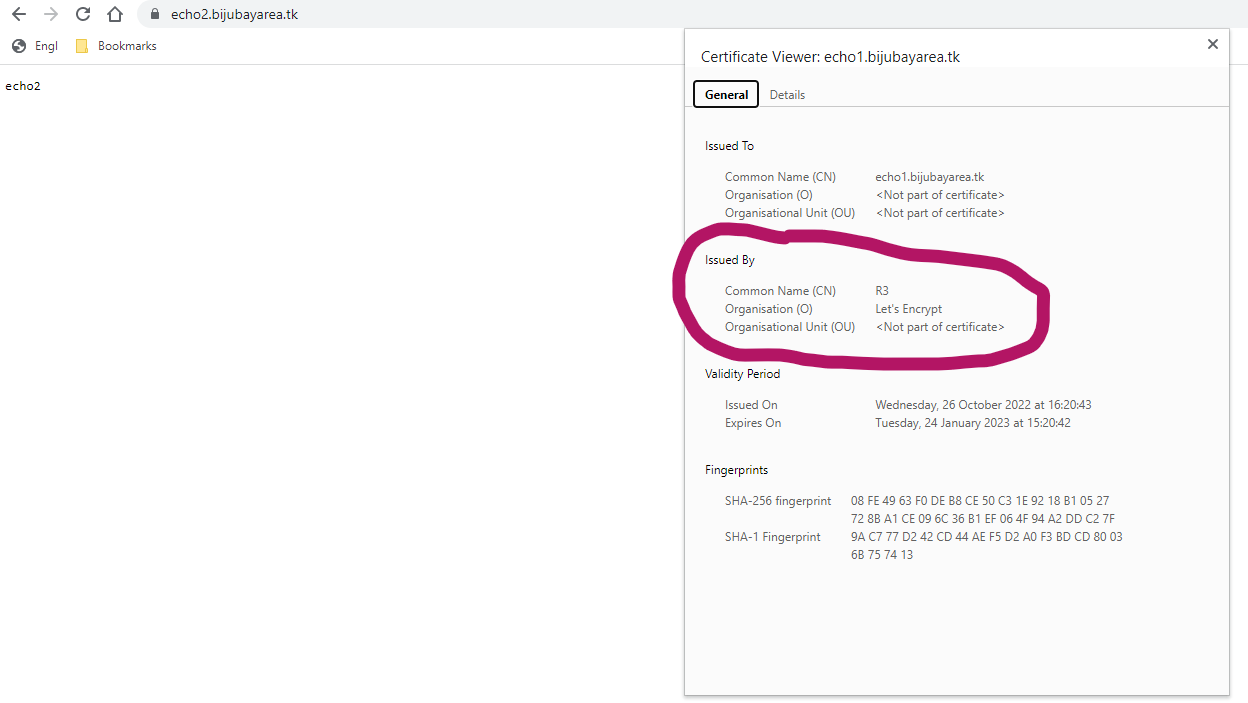
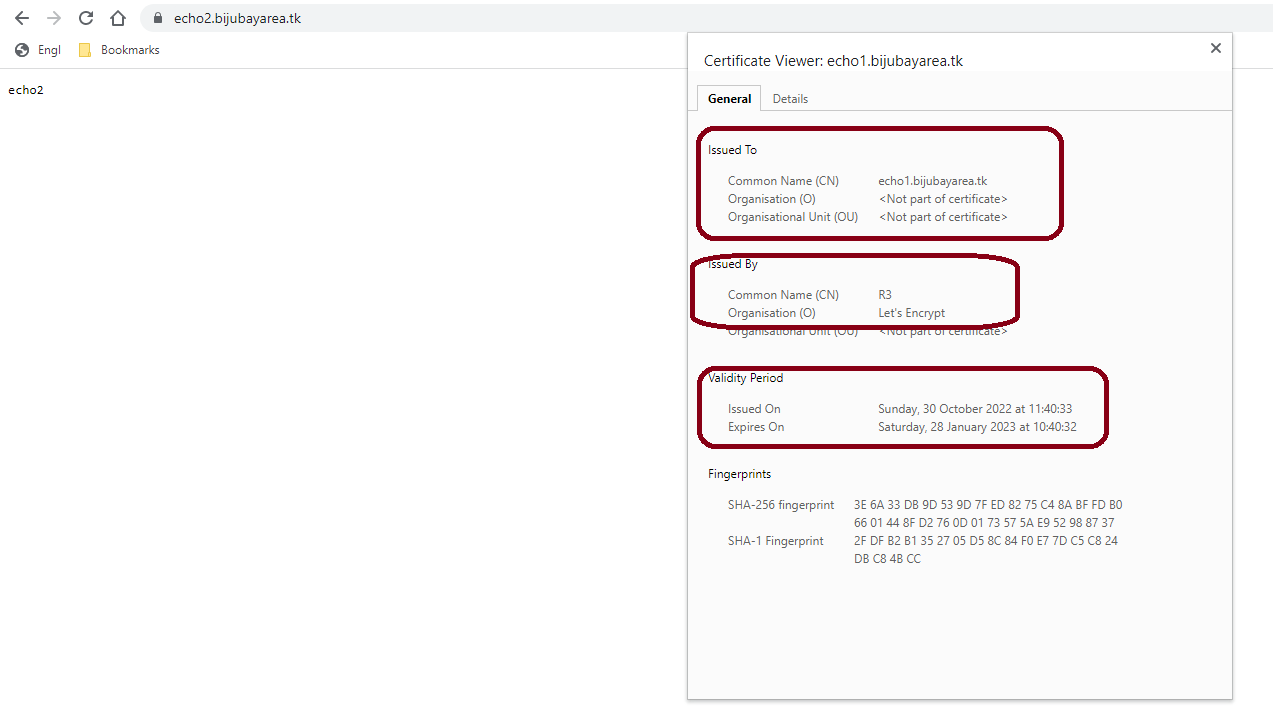
fine tune

diff --git a/README.md b/README.md
@@ -41,7 +41,7 @@ ExternalDNS synchronizes exposed Kubernetes Services and Ingresses with DNS prov
 ** VERY IMPORTANT **
 - argoCD app-set (boot-strap) auto synch should disabled
 - First sych "ingress-nginx" app, wait 2 mins
-- wait for ingress-controller's load balanacer  to come up  
+- wait for ingress-controller's load balanacer to come up and check browser access to LB (`k get svc -n ingress-nginx ingress-nginx-controller`)
 - update AWS Route53 A record "website.bijubayarea.tk" with ingress-controller's load balanacer
 - synch "cert-manager"
 - synch "external-dns"
@@ -122,7 +122,7 @@ Install the App-set either using following ARGO CLI or from  web interface from 
 ** VERY IMPORTANT **
 - argoCD app-set (boot-strap) auto synch should disabled
 - First sych "ingress-nginx" app, wait 2 mins, 
-- wait for ingress-controller's load balanacer  to come up  
+- wait for ingress-controller's load balanacer  to come up and check browser access to LB (`k get svc -n ingress-nginx ingress-nginx-controller`)
 - synch "external-dns", update AWS Route53 A record "website.bijubayarea.tk" with ingress-controller's load balanacer
 - synch "cert-manager"
 
@@ -139,7 +139,7 @@ argocd app create boot-strap --project default --sync-policy auto --auto-prune -
 ## CONFIGURING THE EXTERNAL DNS
 In short, external DNS is a pod running in your EKS cluster which watches over all your ingresses. When it detects an ingress with a host specified, it automatically picks up the hostname as well as the endpoint and creates a record for that resource in Route53. If the host is changed or deleted, external DNS will reflect the change immediately in Route53.
 
-The next steps are two:
+The next steps are :
 
 Configuring the permissions to give access to Route53
 Deploying the External DNS. ExternalDNS reads the ingresses DNS hostnames (website.bijubayarea.tk, echo1.bijubayarea.tk & 
@@ -440,7 +440,7 @@ $ kubectl describe certificates
 
 $ k -n http-echo get certificates
 NAME            READY   SECRET          AGE
-http-echo-tls   False   http-echo-tls   65m
+http-echo-tls   True    http-echo-tls   2m37s
 
 
 $ k -n http-echo describe  certificates http-echo-tls
@@ -451,52 +451,22 @@ Annotations:  <none>
 API Version:  cert-manager.io/v1
 Kind:         Certificate
 Metadata:
-  Creation Timestamp:  2022-10-30T17:43:53Z
+  Creation Timestamp:  2022-10-30T19:38:33Z
   Generation:          1
-  Managed Fields:
-    API Version:  cert-manager.io/v1
-    Fields Type:  FieldsV1
-    fieldsV1:
-      f:metadata:
-        f:labels:
-          .:
-          f:app.kubernetes.io/instance:
-        f:ownerReferences:
-          .:
-          k:{"uid":"359a4c56-52ae-4874-9c31-7c4a4df50ca0"}:
-      f:spec:
-        .:
-        f:dnsNames:
-        f:issuerRef:
-          .:
-          f:group:
-          f:kind:
-          f:name:
-        f:secretName:
-        f:usages:
-    Manager:      controller
-    Operation:    Update
-    Time:         2022-10-30T17:43:53Z
-    API Version:  cert-manager.io/v1
-    Fields Type:  FieldsV1
-    fieldsV1:
-      f:status:
-        .:
-        f:conditions:
-        f:nextPrivateKeySecretName:
+
     Manager:      controller
     Operation:    Update
     Subresource:  status
-    Time:         2022-10-30T17:43:53Z
+    Time:         2022-10-30T19:40:34Z
   Owner References:
     API Version:           networking.k8s.io/v1
     Block Owner Deletion:  true
     Controller:            true
     Kind:                  Ingress
     Name:                  echo-ingress
-    UID:                   359a4c56-52ae-4874-9c31-7c4a4df50ca0
-  Resource Version:        13745
-  UID:                     c1ebcd46-f2c0-4aa0-8f2d-e96ad8121f23
+    UID:                   44860053-b2ad-481d-9614-a665c2541b1e
+  Resource Version:        36730
+  UID:                     2e9a72ec-4198-47ff-8689-b35ac5e85a02
 Spec:
   Dns Names:
     echo1.bijubayarea.tk
@@ -511,54 +481,58 @@ Spec:
     key encipherment
 Status:
   Conditions:
-    Last Transition Time:        2022-10-30T17:43:53Z
-    Message:                     Issuing certificate as Secret does not exist
-    Observed Generation:         1
-    Reason:                      DoesNotExist
-    Status:                      True
-    Type:                        Issuing
-    Last Transition Time:        2022-10-30T17:43:53Z
-    Message:                     Issuing certificate as Secret does not exist
-    Observed Generation:         1
-    Reason:                      DoesNotExist
-    Status:                      False
-    Type:                        Ready
-  Next Private Key Secret Name:  http-echo-tls-dhg4s
-Events:                          <none>
+    Last Transition Time:  2022-10-30T19:40:34Z
+    Message:               Certificate is up to date and has not expired
+    Observed Generation:   1
+    Reason:                Ready
+    Status:                True
+    Type:                  Ready
+  Not After:               2023-01-28T18:40:32Z
+  Not Before:              2022-10-30T18:40:33Z
+  Renewal Time:            2022-12-29T18:40:32Z
+  Revision:                1
+Events:
+  Type    Reason     Age    From          Message
+  ----    ------     ----   ----          -------
+  Normal  Issuing    2m56s  cert-manager  Issuing certificate as Secret does not exist
+  Normal  Generated  2m55s  cert-manager  Stored new private key in temporary Secret resource "http-echo-tls-bcshd"
+  Normal  Requested  2m55s  cert-manager  Created new CertificateRequest resource "http-echo-tls-ztsgl"
+  Normal  Issuing    55s    cert-manager  The certificate has been successfully issued
+
 
 $ kubectl get orders
 
-$  kubectl -n http-echo get orders
+$ kubectl -n http-echo get orders
 NAME                             STATE   AGE
-http-echo-tls-x5sk4-2650895051   valid   67m
+http-echo-tls-ztsgl-2650895051   valid   3m51s
 
 
-$ kubectl -n http-echo describe orders http-echo-tls-x5sk4-2650895051
-Name:         http-echo-tls-x5sk4-2650895051
+$ kubectl -n http-echo describe orders http-echo-tls-ztsgl-2650895051
+Name:         http-echo-tls-ztsgl-2650895051
 Namespace:    http-echo
 Labels:       app.kubernetes.io/instance=http-echo
 Annotations:  cert-manager.io/certificate-name: http-echo-tls
               cert-manager.io/certificate-revision: 1
-              cert-manager.io/private-key-secret-name: http-echo-tls-dhg4s
+              cert-manager.io/private-key-secret-name: http-echo-tls-bcshd
 API Version:  acme.cert-manager.io/v1
 Kind:         Order
 Metadata:
-  Creation Timestamp:  2022-10-30T17:43:54Z
+  Creation Timestamp:  2022-10-30T19:38:34Z
   Generation:          1
 
     Manager:      controller
     Operation:    Update
     Subresource:  status
-    Time:         2022-10-30T18:50:11Z
+    Time:         2022-10-30T19:40:34Z
   Owner References:
     API Version:           cert-manager.io/v1
     Block Owner Deletion:  true
     Controller:            true
     Kind:                  CertificateRequest
-    Name:                  http-echo-tls-x5sk4
-    UID:                   9c518b14-fd47-47a9-bbf1-52e61352946c
-  Resource Version:        26003
-  UID:                     5a828341-42fa-4dd9-afd2-982293703406
+    Name:                  http-echo-tls-ztsgl
+    UID:                   5c8384a4-dbde-4f44-a5be-658900427ef3
+  Resource Version:        36709
+  UID:                     49abbc2b-053a-42a2-af0f-aaf43728eda4
 Spec:
   Dns Names:
     echo1.bijubayarea.tk
@@ -567,54 +541,50 @@ Spec:
     Group:  cert-manager.io
     Kind:   ClusterIssuer
     Name:   letsencrypt-prod
-
+  Request:  
 Status:
   Authorizations:
     Challenges:
-      Token:        JN54gD_jy9wzAeHXPFJqsf57ItgF4oHlsWbH1LRKDrw
+      Token:        qBdBScMWHuuMqfE11rFM9XF99-7nzHu1IJpUWTyurvo
       Type:         http-01
-      URL:          https://acme-v02.api.letsencrypt.org/acme/chall-v3/170485759642/yYKHlA
-      Token:        JN54gD_jy9wzAeHXPFJqsf57ItgF4oHlsWbH1LRKDrw
+      URL:          https://acme-v02.api.letsencrypt.org/acme/chall-v3/170511270132/3pEBjA
+      Token:        qBdBScMWHuuMqfE11rFM9XF99-7nzHu1IJpUWTyurvo
       Type:         dns-01
-      URL:          https://acme-v02.api.letsencrypt.org/acme/chall-v3/170485759642/yTVRZg
-      Token:        JN54gD_jy9wzAeHXPFJqsf57ItgF4oHlsWbH1LRKDrw
+      URL:          https://acme-v02.api.letsencrypt.org/acme/chall-v3/170511270132/U7rydQ
+      Token:        qBdBScMWHuuMqfE11rFM9XF99-7nzHu1IJpUWTyurvo
       Type:         tls-alpn-01
-      URL:          https://acme-v02.api.letsencrypt.org/acme/chall-v3/170485759642/ZzZ-sg
+      URL:          https://acme-v02.api.letsencrypt.org/acme/chall-v3/170511270132/qmJBcw
     Identifier:     echo1.bijubayarea.tk
     Initial State:  pending
-    URL:            https://acme-v02.api.letsencrypt.org/acme/authz-v3/170485759642
+    URL:            https://acme-v02.api.letsencrypt.org/acme/authz-v3/170511270132
     Wildcard:       false
     Challenges:
-      Token:        qKJgViu6m-rIJUP_fPFlehaGmrCzbyQqI0JMUMfajTQ
+      Token:        ZwoaayhcNDbBWYrPMltjjub6HHppovgZkGDh_i5CJJ4
       Type:         http-01
-      URL:          https://acme-v02.api.letsencrypt.org/acme/chall-v3/170485759652/SDG-HA
-      Token:        qKJgViu6m-rIJUP_fPFlehaGmrCzbyQqI0JMUMfajTQ
-      Type:         dns-01
-      URL:          https://acme-v02.api.letsencrypt.org/acme/chall-v3/170485759652/x5NcoQ
-      Token:        qKJgViu6m-rIJUP_fPFlehaGmrCzbyQqI0JMUMfajTQ
-      Type:         tls-alpn-01
-      URL:          https://acme-v02.api.letsencrypt.org/acme/chall-v3/170485759652/pXbapA
+      URL:          https://acme-v02.api.letsencrypt.org/acme/chall-v3/170511270142/6RQ5Mg
     Identifier:     echo2.bijubayarea.tk
-    Initial State:  pending
-    URL:            https://acme-v02.api.letsencrypt.org/acme/authz-v3/170485759652
+    Initial State:  valid
+    URL:            https://acme-v02.api.letsencrypt.org/acme/authz-v3/170511270142
     Wildcard:       false
-....
-....
-....
+  Certificate:      
+  Finalize URL:     https://acme-v02.api.letsencrypt.org/acme/finalize/801601932/139424283242
+  State:            valid
+  URL:              https://acme-v02.api.letsencrypt.org/acme/order/801601932/139424283242
 Events:
-  Type    Reason    Age   From          Message
-  ----    ------    ----  ----          -------
-  Normal  Complete  97s   cert-manager  Order completed successfully
+  Type    Reason    Age    From          Message
+  ----    ------    ----   ----          -------
+  Normal  Created   4m26s  cert-manager  Created Challenge resource "http-echo-tls-ztsgl-2650895051-4074663538" for domain "echo1.bijubayarea.tk"
+  Normal  Complete  2m28s  cert-manager  Order completed successfully
 
 
 $  kubectl -n website get cert
 NAME          READY   SECRET        AGE
-website-tls   True    website-tls   69m
+website-tls   True    website-tls   5m33s
 
 
-$  kubectl -n website get orders
+$ kubectl -n website get orders
 NAME                           STATE   AGE
-website-tls-gwvbb-2139627901   valid   70m
+website-tls-fg25f-2139627901   valid   5m42s
 ```
 
 ## Results:
@@ -637,7 +607,7 @@ https://https://website.bijubayarea.tk/
 ```
 ![](https://github.com/bijubayarea/argocd-k8s-aws-route53-external-dns-ingress-tls/blob/main/images/personal_website_tls.png)
 
-## Verify Route53 is updated with DNS entry
+## Verify Route53 is AUTO updated with DNS entry
 
 pod external-dns will auto add a DNS A record in hosted zone for the hostname defined in ingress
 Check if the ELB load balancer names is correct entry for the DNS A Record
@@ -680,7 +650,7 @@ ingress-nginx-controller   LoadBalancer   172.20.78.181   ae2461394216a4ccdaf93f
 
 ## Debug External DNS
 
- problem with the DNS records after 300 seconds or 5 minutes we could check the External DNS pod Logs.
+ if any problem with the DNS records after 300 seconds or 5 minutes we could check the External DNS pod Logs.
  ```
 k logs  -n external-dns external-dns-5784c4bc77-s5dkf
 
